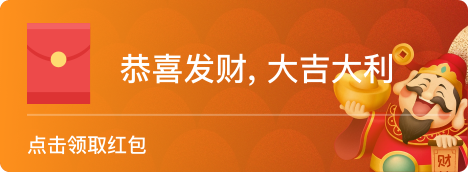
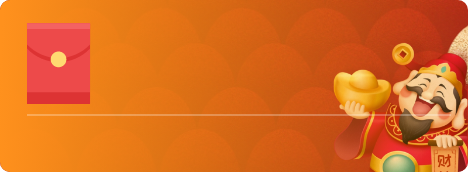
fix

diff --git a/src/views/chat/components/redImg.vue b/src/views/chat/components/redImg.vue
@@ -1,11 +1,18 @@
 <template>
   <div class="m-t-4 red-img">
-    <img
-      class="d-img pointer"
-      :src="canGet ? red1 : red2"
-      alt=""
+    <div
       @click="open"
-    />
+      class="reg-img-cont pointer"
+      :style="{ backgroundImage: `url(${canGet ? red1 : red2})` }"
+    >
+      <p class="font16 describes els">
+        {{ packet.describes }}
+      </p>
+      <!-- "status": 0,// 0可抢 1抢空 2过期 -->
+      <p class="status">
+        {{ packetStatus }}
+      </p>
+    </div>
     <van-popup class="popupOpen pointer" v-model="showOpen" @click="getPacket">
       <ul class="flex-column center-center getPacket font14">
         <li class="align-center font14">
@@ -130,6 +137,15 @@ export default {
     canGet() {
       return this.packet.status === 0 && this.packet.list?.length === 0;
     },
+    packetStatus() {
+      if (this.myRedMoney.money !== undefined) {
+        return "已领取";
+      }
+      if (this.packet.status === 0) {
+        return "点击领取红包";
+      }
+      return this.packet.status === 1 ? "抢空" : "过期";
+    },
   },
   watch: {
     wsStatus() {
@@ -153,6 +169,7 @@ export default {
       "sendMessage",
       "fetchHistory",
     ]),
+
     getMoneyRecord() {
       this.$toast.loading({
         duration: 3000, // 设置 3 秒后关闭
@@ -311,6 +328,20 @@ export default {
   .one-doc {
     height: 25px;
     border-bottom: 1px solid rgba(254, 237, 175, 0.3);
+  }
+}
+.reg-img-cont {
+  width: 234px;
+  height: 86px;
+  background-size: 100% 100%;
+  color: #fff;
+  .describes {
+    padding-top: 21px;
+    padding-left: 61px;
+    margin-bottom: 20px;
+  }
+  .status {
+    margin-left: 14px;
   }
 }
 </style>
